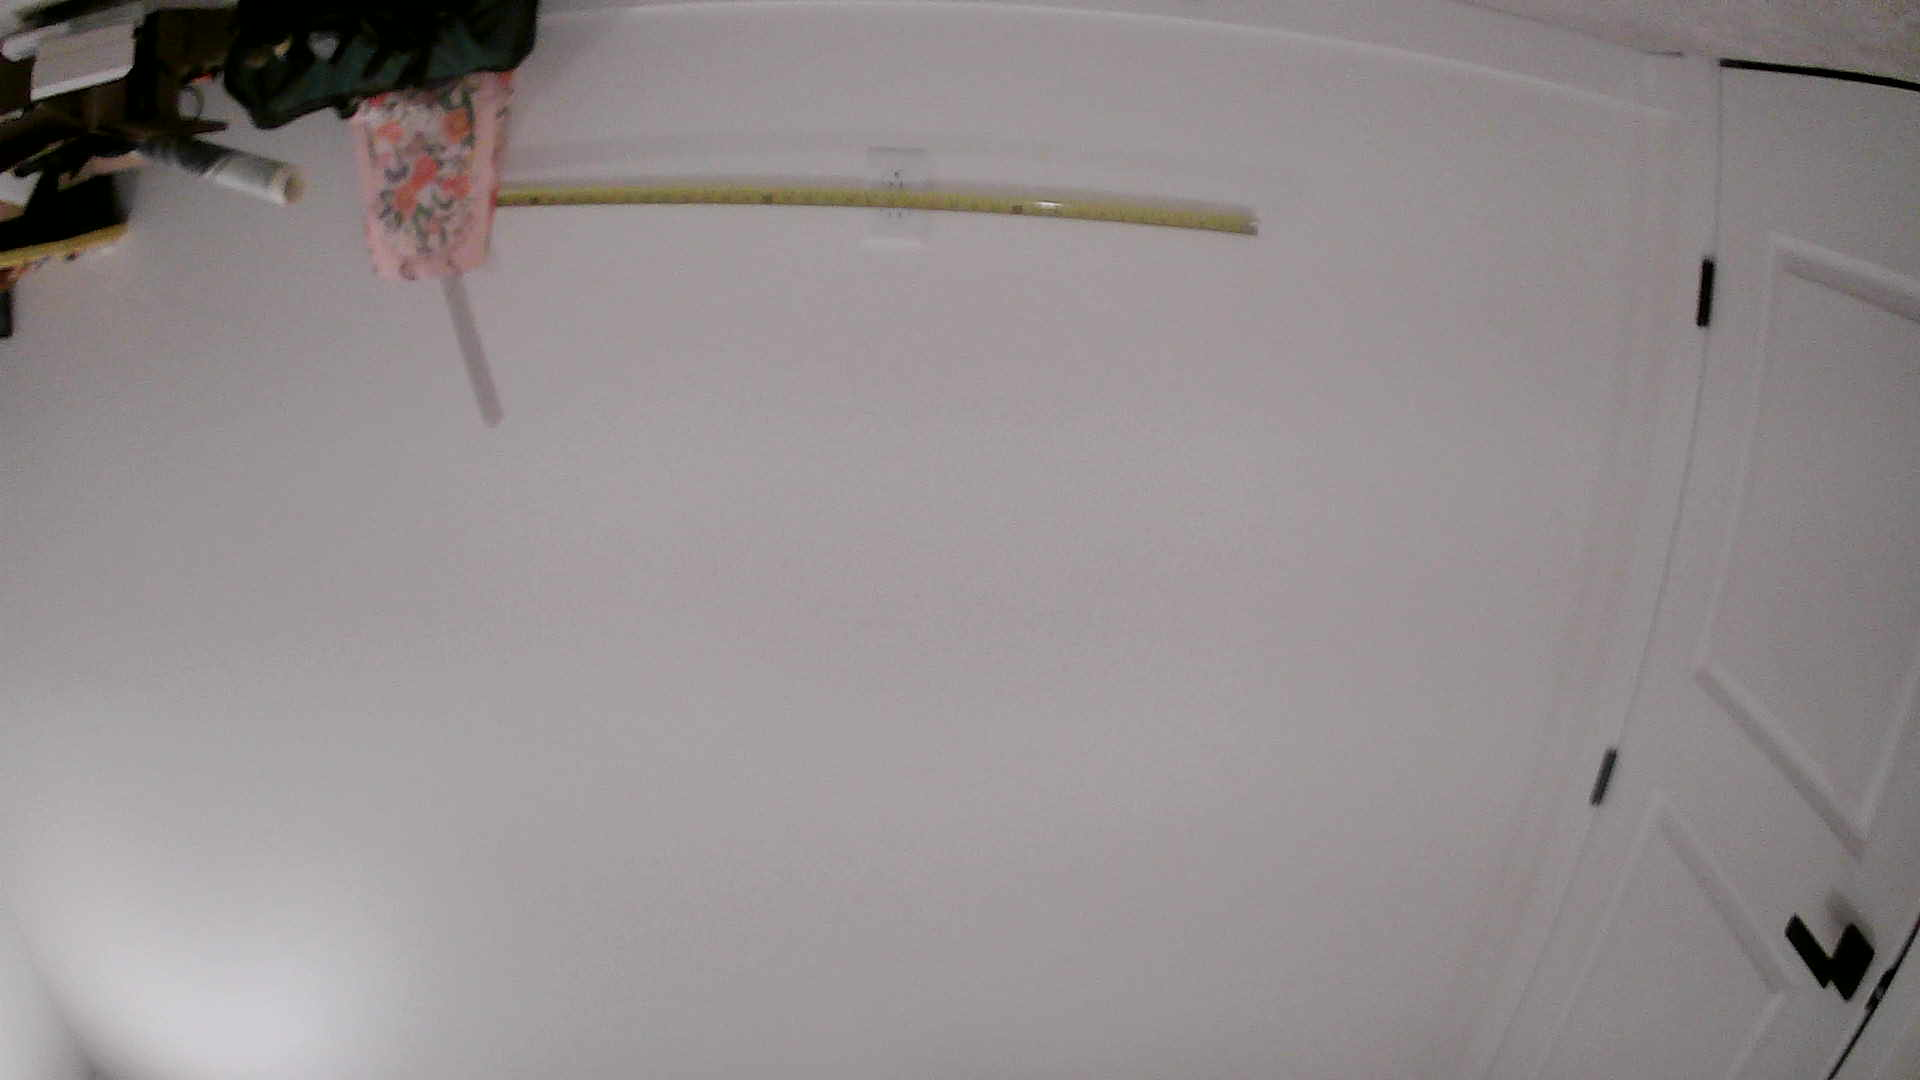
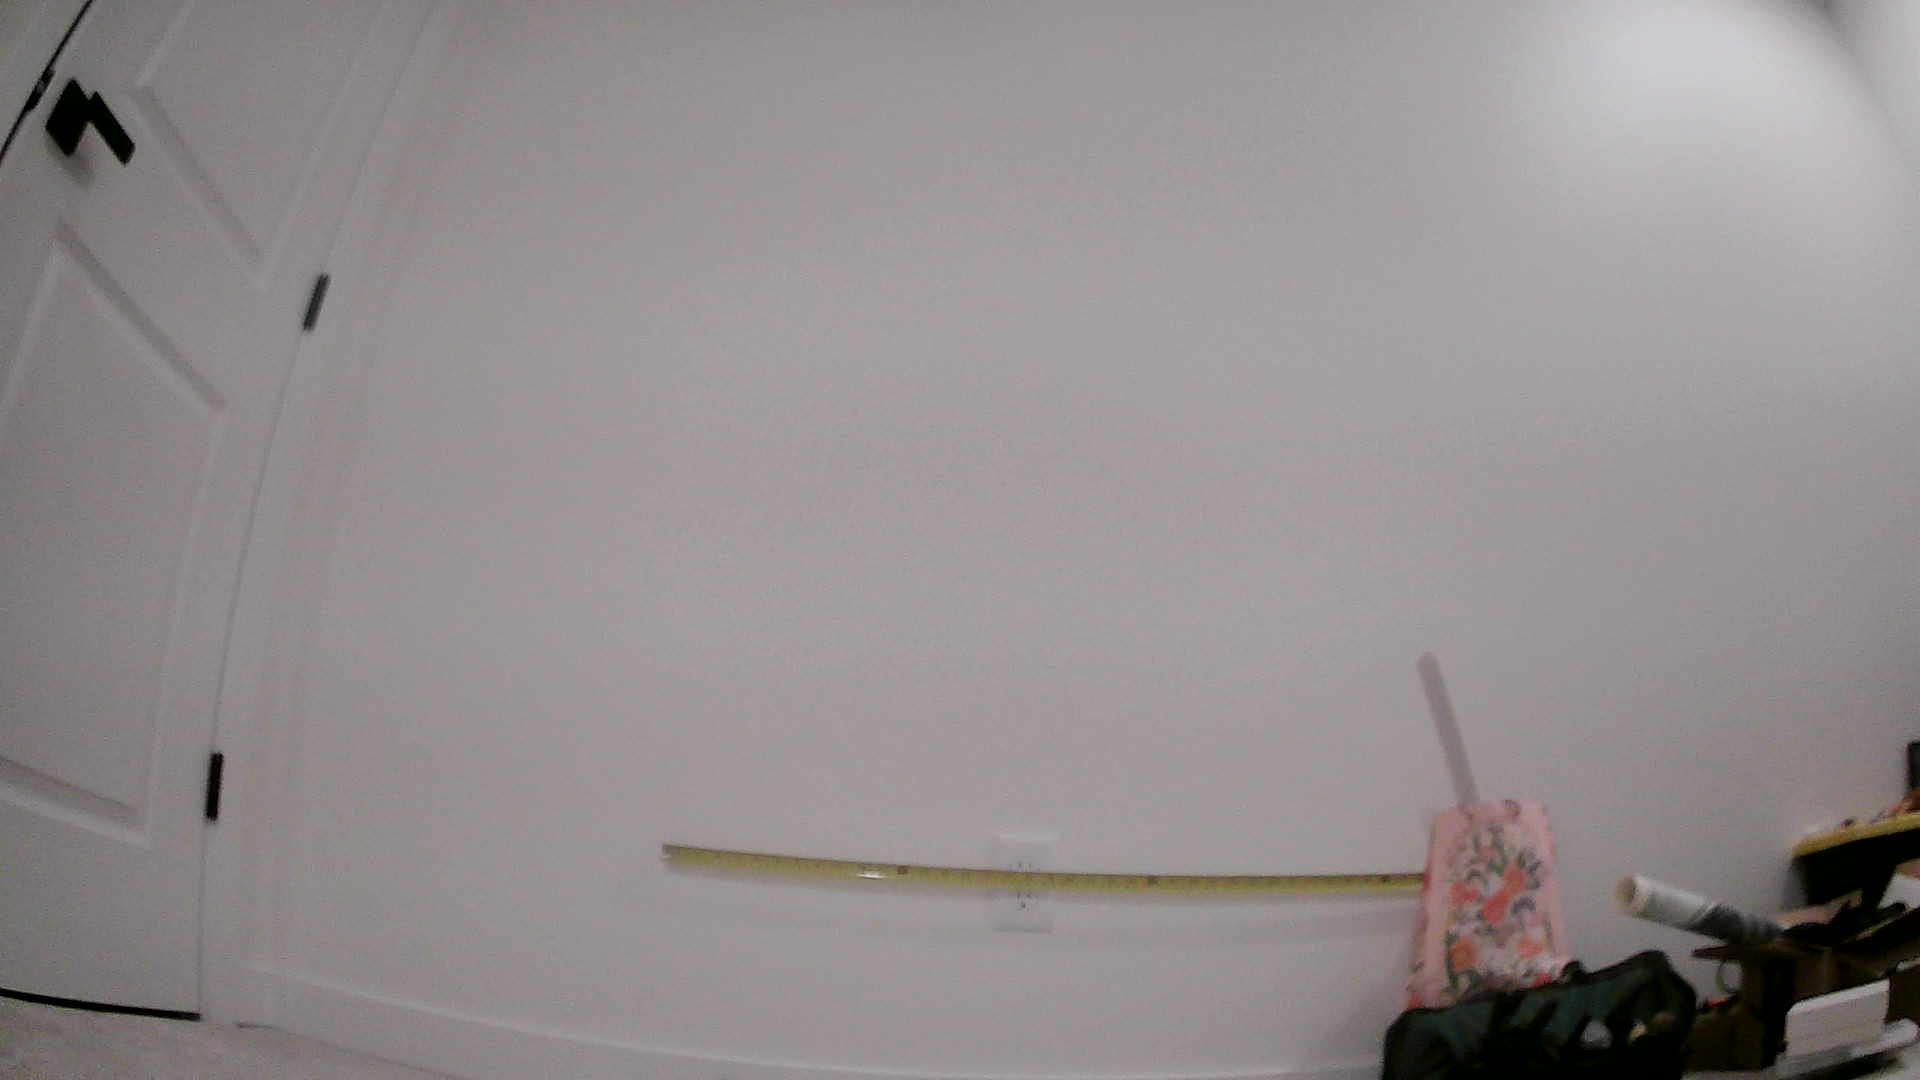
camera bootup and fov calibration

diff --git a/robot_core/sensors/camera.py b/robot_core/sensors/camera.py
@@ -61,11 +61,17 @@ class Camera:
                 log.warning("camera: picamera2 unavailable (%s); falling back to OpenCV", exc)
         if self._picam is None:
             import cv2
-            self._cap = cv2.VideoCapture(index)
-            self._cap.set(cv2.CAP_PROP_FOURCC, cv2.VideoWriter_fourcc(*"MJPG"))
-            self._cap.set(cv2.CAP_PROP_BUFFERSIZE, 1)
-            self._cap.set(cv2.CAP_PROP_FRAME_WIDTH, main_size[0])
-            self._cap.set(cv2.CAP_PROP_FRAME_HEIGHT, main_size[1])
+            params = [cv2.CAP_PROP_FOURCC, cv2.VideoWriter_fourcc(*"MJPG"),
+                      cv2.CAP_PROP_FRAME_WIDTH, main_size[0], cv2.CAP_PROP_FRAME_HEIGHT, main_size[1],
+                      cv2.CAP_PROP_BUFFERSIZE, 1]
+            # V4L2 by name, the format given at open so the stream is set up once. Left to
+            # choose, OpenCV on the Pi took GStreamer: ~9 s to open, and it ignored MJPG and
+            # the buffer size (so 1080p came as raw frames, ~0.4 s each).
+            self._cap = cv2.VideoCapture(index, cv2.CAP_V4L2, params)
+            if not self._cap.isOpened():                    # no V4L2 (a laptop): the default backend
+                self._cap = cv2.VideoCapture(index)
+                for prop, value in zip(params[::2], params[1::2]):
+                    self._cap.set(prop, value)
             if not self._cap.isOpened():
                 raise RuntimeError(f"cannot open camera {index}")
 

diff --git a/tests/test_sensors.py b/tests/test_sensors.py
@@ -155,14 +155,15 @@ def test_camera_restarts_once_when_frames_stop_and_gives_up_after():
 
 
 
-def test_usb_camera_asks_for_mjpeg_one_buffer_and_drops_the_stale_frame(monkeypatch):
+def test_usb_camera_opens_v4l2_with_mjpeg_one_buffer_and_drops_the_stale_frame(monkeypatch):
     import cv2
     import numpy as np
     from robot_core.sensors import camera as cam_mod
 
     class FakeCap:
-        def __init__(self, index):
-            self.props, self.n, self.grabbed = {}, 0, 0
+        def __init__(self, index, api=None, params=()):
+            self.api, self.n, self.grabbed = api, 0, 0
+            self.props = dict(zip(params[::2], params[1::2]))     # given at open, not set() one by one
         def set(self, prop, value): self.props[prop] = value
         def isOpened(self): return True
         def grab(self):
@@ -177,6 +178,7 @@ def test_usb_camera_asks_for_mjpeg_one_buffer_and_drops_the_stale_frame(monkeypa
     monkeypatch.setattr(cv2, "VideoCapture", FakeCap)
     cam = cam_mod.Camera(main_size=(1920, 1080), inverted=False, backend="opencv")
     cap = cam._cap
+    assert cap.api == cv2.CAP_V4L2, "V4L2 by name: left to choose, OpenCV took GStreamer (~9 s to open)"
     assert cap.props[cv2.CAP_PROP_FOURCC] == cv2.VideoWriter_fourcc(*"MJPG")
     assert cap.props[cv2.CAP_PROP_BUFFERSIZE] == 1
     f = cam.capture()

diff --git a/ros2_ws/src/robot_voice/robot_voice/voice_node.py b/ros2_ws/src/robot_voice/robot_voice/voice_node.py
@@ -146,6 +146,9 @@ def _run_task(task: str, name: str) -> bool:
 def main(args=None) -> None:
     rclpy.init(args=args)
     node = Node("voice")
+    # OpenCV takes ~4.5 s to import on the Pi: do it now, in the background, so the
+    # first face task doesn't wait for it.
+    threading.Thread(target=lambda: __import__("cv2"), name="cv2-import", daemon=True).start()
     if not node.declare_parameter("buds_check", True).value:   # robot.yaml /voice
         settings.MIC_MODE = "room"                            # camera mic only, no buds checks
     if not node.declare_parameter("live_resume", True).value:  # robot.yaml /voice
